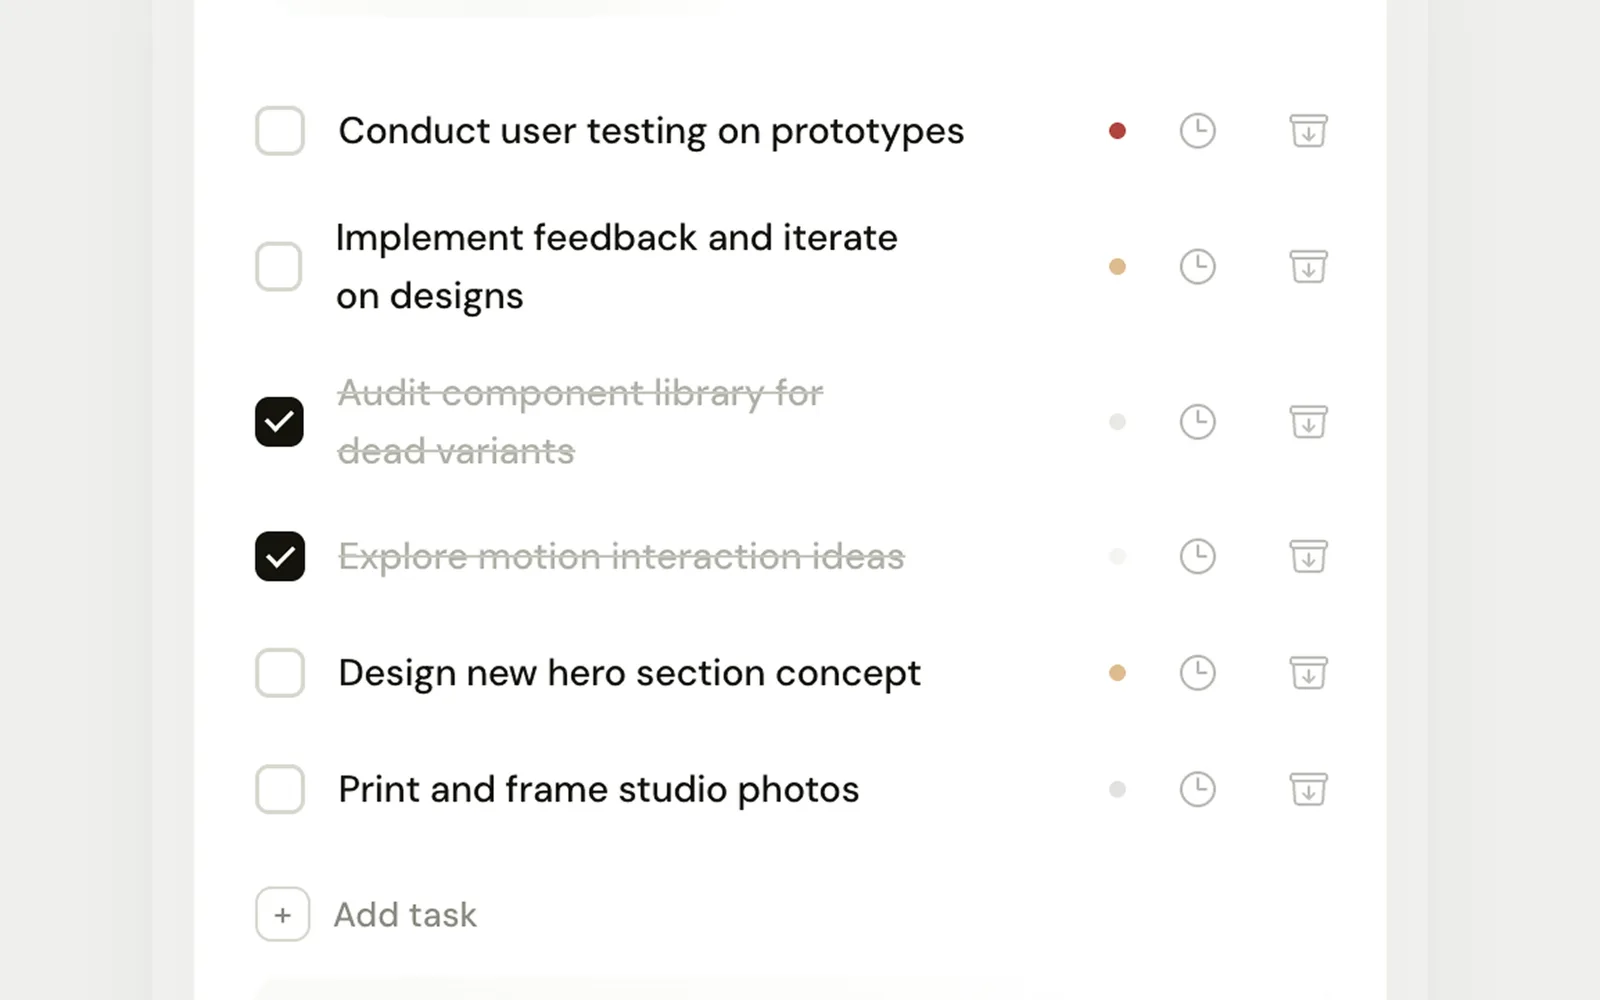
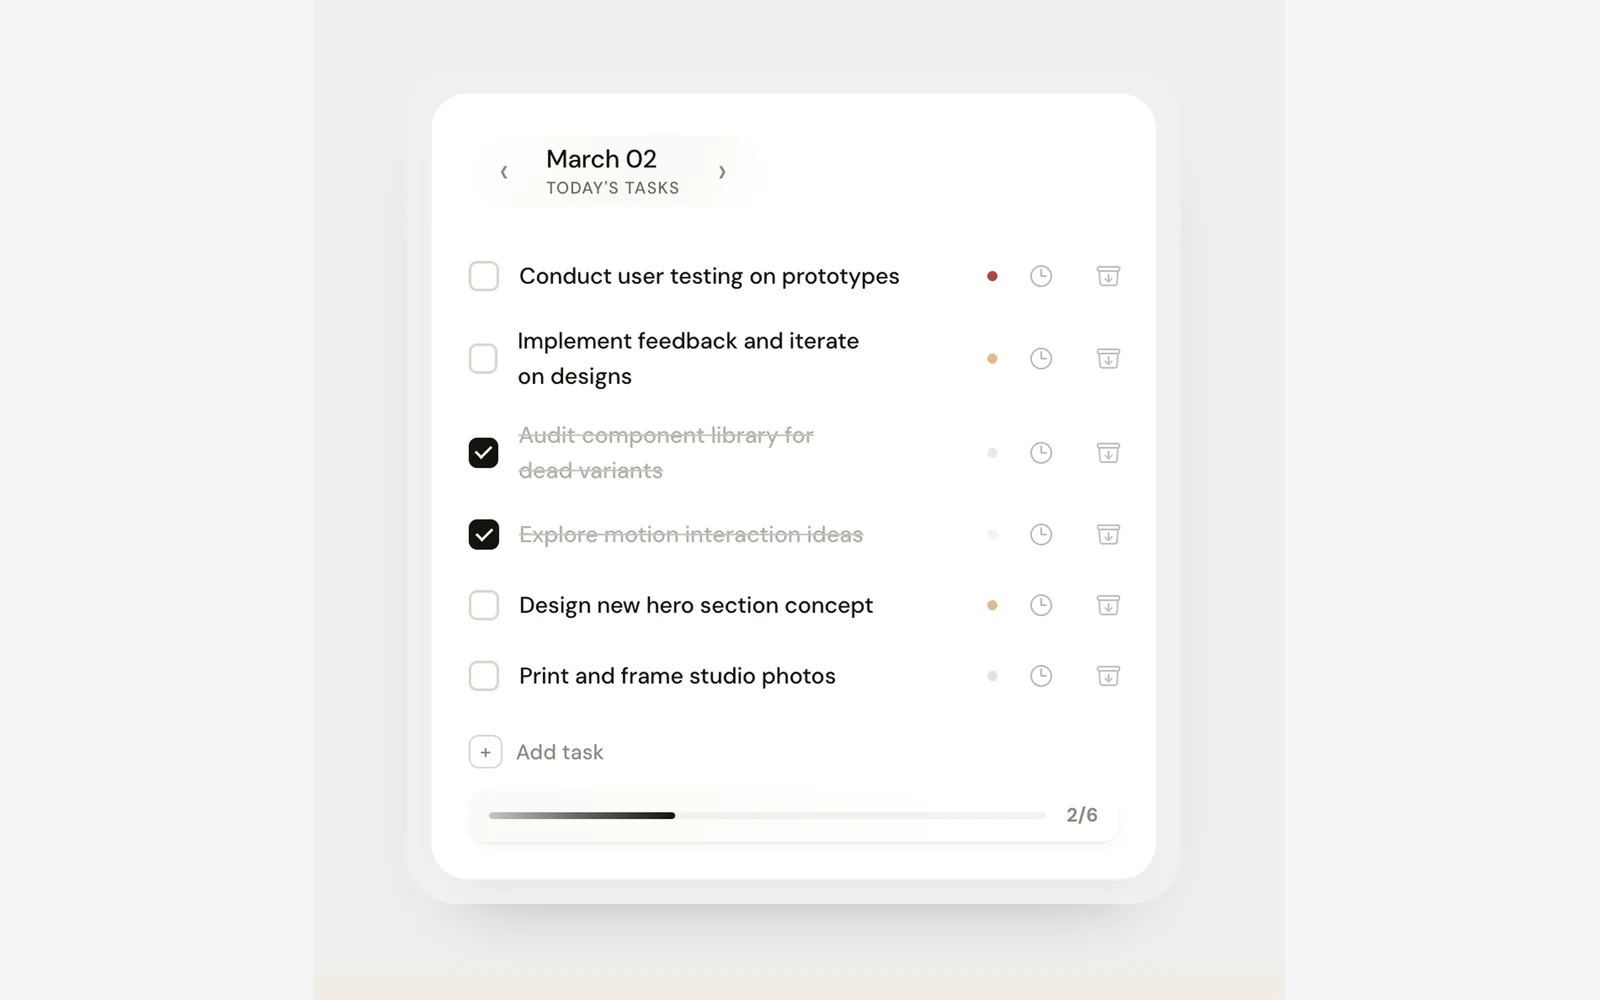
Show screenshots on mobile, refresh three previews
- Rows render their screenshot inline below 1024px, where hover previews
  don't exist; hover previews take over above it
- New Joy of Life and VitalityPhysio captures, cropped free of builder chrome
- Daily Tasks is letterboxed on its own background instead of centre-cropped,
  so the whole card is visible
- Highlight layoutId is scoped per list so it no longer flies between the
  Projects and Craft lists

diff --git a/src/components/ProjectList.tsx b/src/components/ProjectList.tsx
@@ -1,7 +1,7 @@
 "use client";
 
 import Image from "next/image";
-import { useEffect, useRef, useState } from "react";
+import { useEffect, useId, useRef, useState } from "react";
 import { createPortal } from "react-dom";
 import {
   AnimatePresence,
@@ -20,12 +20,14 @@ const EDGE = 20;
 export function ProjectList({ projects }: { projects: Project[] }) {
   const [active, setActive] = useState<number | null>(null);
   const [frame, setFrame] = useState(0);
+  // Unique per list so the highlight never animates between two lists.
+  const id = useId();
   const [canPreview, setCanPreview] = useState(false);
   const listRef = useRef<HTMLDivElement>(null);
 
   // Previews are a pointer affordance — skip them on touch and on narrow screens.
   useEffect(() => {
-    const query = window.matchMedia("(pointer: fine) and (min-width: 1000px)");
+    const query = window.matchMedia("(pointer: fine) and (min-width: 1024px)");
     const sync = () => setCanPreview(query.matches);
     sync();
     query.addEventListener("change", sync);
@@ -78,7 +80,7 @@ export function ProjectList({ projects }: { projects: Project[] }) {
   return (
     <div
       ref={listRef}
-      className="relative flex flex-col gap-7 sm:gap-0"
+      className="relative flex flex-col gap-8 lg:gap-0"
       onMouseMove={handleMove}
       onMouseLeave={() => setActive(null)}
     >
@@ -93,23 +95,37 @@ export function ProjectList({ projects }: { projects: Project[] }) {
             onMouseEnter={() => select(index)}
             onFocus={() => select(index)}
             onBlur={() => setActive(null)}
-            className="group relative -mx-3 flex items-baseline justify-between gap-6 rounded-md px-3 py-2.5 outline-none focus-visible:ring-2 focus-visible:ring-[var(--accent)] sm:py-3"
+            className="group relative -mx-3 flex flex-col gap-3 rounded-md px-3 py-2.5 outline-none focus-visible:ring-2 focus-visible:ring-[var(--accent)] lg:py-3"
           >
             {active === index && (
               <motion.span
-                layoutId="project-highlight"
+                layoutId={`highlight-${id}`}
                 className="absolute inset-0 -z-10 rounded-md bg-[var(--bg-subtle)]"
                 transition={{ type: "spring", stiffness: 420, damping: 38 }}
               />
             )}
-            <span className="flex min-w-0 flex-col sm:flex-row sm:items-baseline sm:gap-3">
-              <span className="whitespace-nowrap text-text transition-colors duration-200 group-hover:text-[var(--accent)]">
-                {project.name}
+            <span className="flex items-baseline justify-between gap-6">
+              <span className="flex min-w-0 flex-col lg:flex-row lg:items-baseline lg:gap-3">
+                <span className="whitespace-nowrap text-text transition-colors duration-200 group-hover:text-[var(--accent)]">
+                  {project.name}
+                </span>
+                <span className="text-muted lg:truncate">
+                  {project.description}
+                </span>
               </span>
-              <span className="text-muted sm:truncate">{project.description}</span>
+              <span className="shrink-0 font-mono text-[11px] uppercase tracking-[0.09em] text-faint transition-colors duration-200 group-hover:text-[var(--accent)]">
+                {project.tag}
+              </span>
             </span>
-            <span className="shrink-0 font-mono text-[11px] uppercase tracking-[0.09em] text-faint transition-colors duration-200 group-hover:text-[var(--accent)]">
-              {project.tag}
+            {/* Touch and small screens get the screenshot inline — no hover to reveal it. */}
+            <span className="relative block aspect-[16/10] w-full overflow-hidden rounded-lg border border-[var(--border)] bg-[var(--bg-subtle)] lg:hidden">
+              <Image
+                src={project.previews[0]}
+                alt={`${project.name} screenshot`}
+                fill
+                sizes="(max-width: 700px) 100vw, 640px"
+                className="object-cover"
+              />
             </span>
           </a>
         );

diff --git a/src/lib/content.ts b/src/lib/content.ts
@@ -28,7 +28,7 @@ export const caseStudies: Project[] = [
     description: "Services, doctors and clinic technology.",
     href: "#",
     tag: "Healthcare",
-    previews: ["/work/vitality-physio.svg"],
+    previews: ["/work/vitality-physio.webp"],
   },
 ];
 

diff --git a/README.md b/README.md
@@ -28,18 +28,15 @@ Screenshots live in `public/work/` as 1600×1000 (16:10) WebP. To add one, drop 
 in and list it under a project's `previews` array — a project with more than one image
 cycles through them while hovered.
 
-Still to replace:
-- `vitality-physio.svg` is a generated placeholder; no clinic screenshot was supplied yet.
-- `joy-of-life.webp` comes from the exported PDF, which has a few overlapping elements
-  in the hero. A clean PNG capture would look better.
-
-Once no SVGs remain in `public/work/`, the `images` block in `next.config.ts` can go.
+All previews are real screenshots. Nothing in `public/work/` is an SVG any more, so the
+`images` block in `next.config.ts` can be removed whenever you like.
 
 ## Notes
 
 - Dark by default, follows the system preference on first visit, and the toggle in the
   header persists a choice to `localStorage` (applied before paint, so no flash).
-- Hover previews are pointer-and-desktop only; touch and narrow screens skip them.
+- Hover previews run above 1024px on fine pointers. Below that, each row shows its
+  screenshot inline instead, so touch users see the work without hovering.
 - Respects `prefers-reduced-motion`.
 
 ## Deploy
